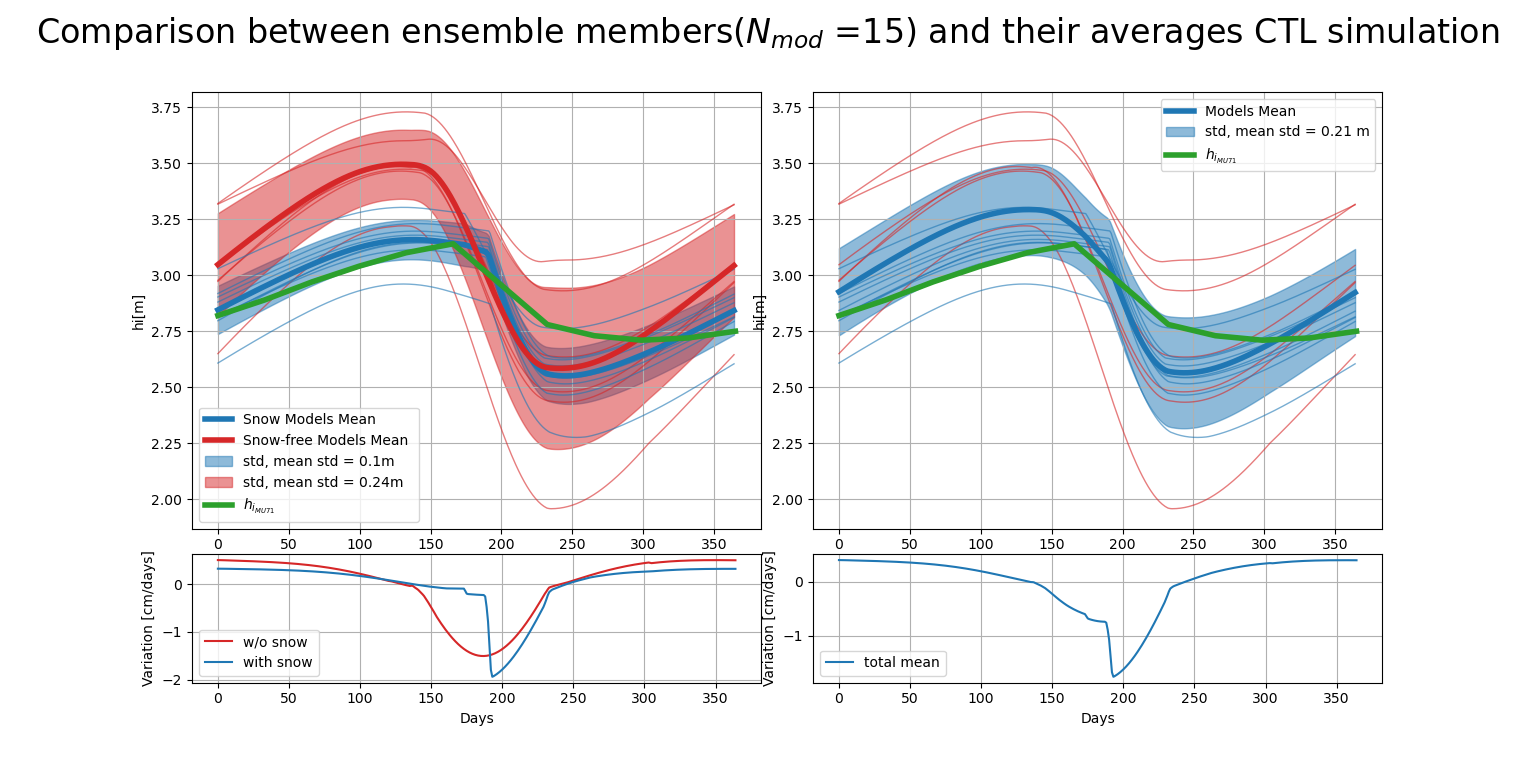
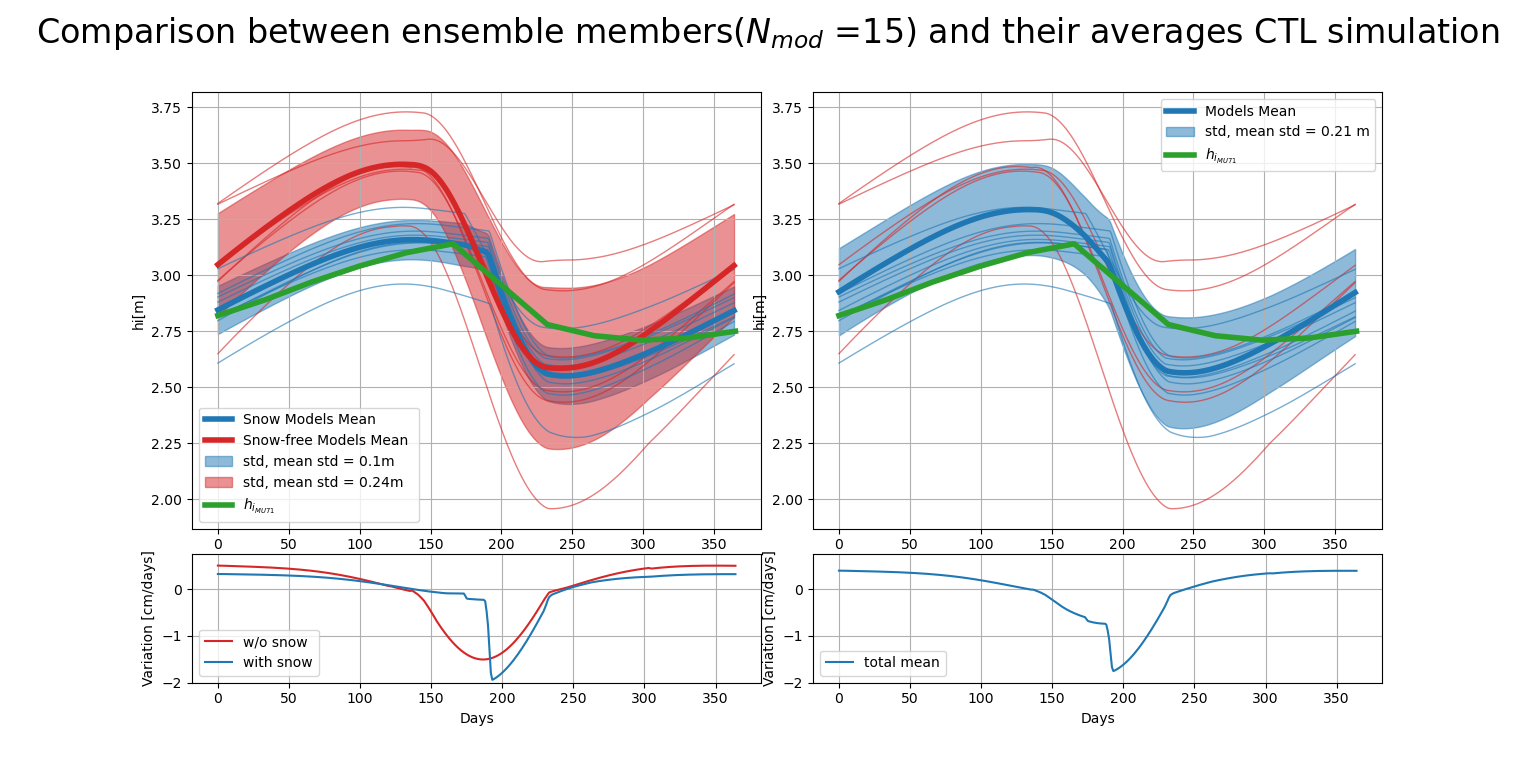
Put the derivative plot on a common y-scale in function plot_all_mod()

diff --git a/Ensemble Projections/data_analysis.py b/Ensemble Projections/data_analysis.py
@@ -686,7 +686,7 @@ def plot_all_mod(data, data_name, N_mod, extra_label, display_single_models = Fa
             color="tab:green",
         )
  
-
+    ###### - plots parameters - ######
 
     fig.suptitle(
         r"Comparison between ensemble members"
@@ -719,8 +719,10 @@ def plot_all_mod(data, data_name, N_mod, extra_label, display_single_models = Fa
     axs[1].set_yticks(fontsize=20 * lab_size_fact) """
     axs[2].grid()
     axs[2].legend(fontsize=10 * lab_size_fact)
+    axs[2].set_ylim(-2,0.75)
 
     axs[3].set_xlabel(label_x)
+    axs[3].set_ylim(-2,0.75)
     axs[3].set_ylabel("Variation [cm/days]")
     """ axs[1].set_xticks(fontsize=20 * lab_size_fact)
     axs[1].set_yticks(fontsize=20 * lab_size_fact) """
